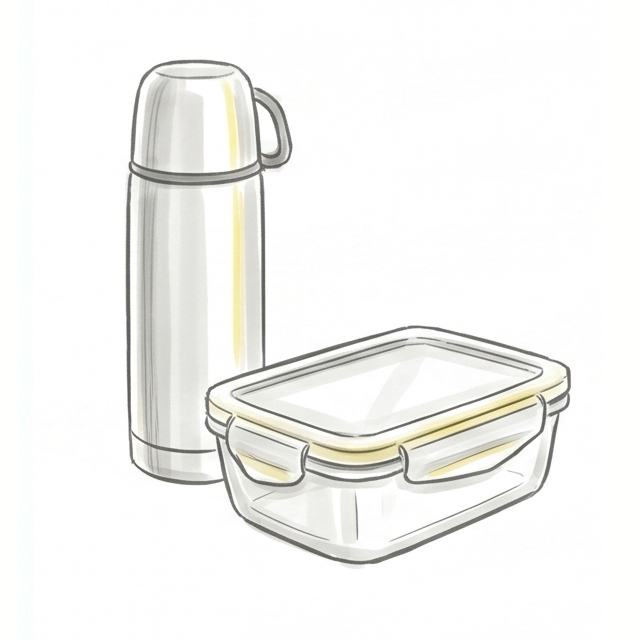
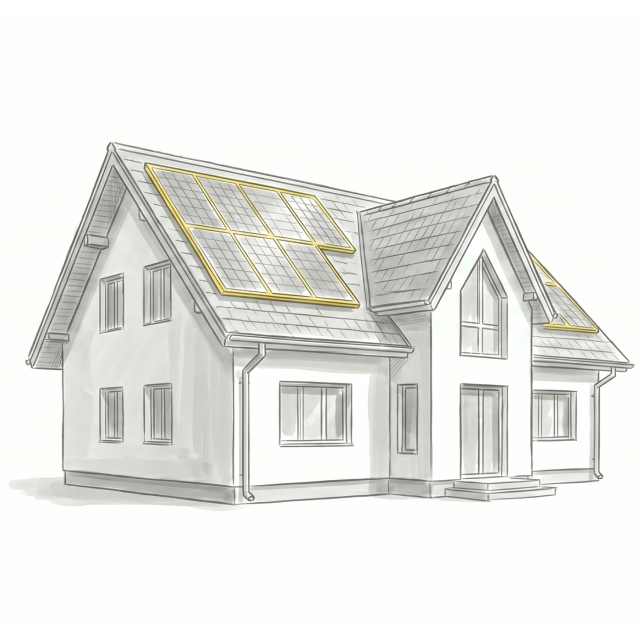
ch5 upd

diff --git a/chapter-5.html b/chapter-5.html
@@ -171,11 +171,12 @@
 
       <!-- Карточки привычек (desktop: 6 flip-cards) -->
       <div class="caption-label caption-label--desktop-only" style="text-align:center; margin-bottom: 24px;">Как снизить углеродный след в повседневной жизни?</div>
+      <p class="cards-white-hint">Наведите курсор на&nbsp;карточку</p>
       <div class="cards-white-grid cards-white-grid--habits-desktop reveal">
-        <div class="card-white card-white--portrait">
+        <div class="card-white">
           <div class="card-white__inner">
             <div class="card-white__front">
-              <img src="img/ch5/ch5-ill15.png" loading="lazy" alt="" class="card-white__icon card-white__icon--portrait">
+              <img src="img/ch5/ch5-ill17.png" loading="lazy" alt="" class="card-white__icon">
               <span class="card-white__label">Раздельный сбор отходов</span>
             </div>
             <div class="card-white__back">
@@ -184,10 +185,10 @@
             </div>
           </div>
         </div>
-        <div class="card-white card-white--portrait">
+        <div class="card-white">
           <div class="card-white__inner">
             <div class="card-white__front">
-              <img src="img/ch5/ch5-ill16.png" loading="lazy" alt="" class="card-white__icon card-white__icon--portrait">
+              <img src="img/ch5/ch5-ill18.png" loading="lazy" alt="" class="card-white__icon">
               <span class="card-white__label">Рациональное использование пищевых ресурсов</span>
             </div>
             <div class="card-white__back">
@@ -196,10 +197,10 @@
             </div>
           </div>
         </div>
-        <div class="card-white card-white--portrait">
+        <div class="card-white">
           <div class="card-white__inner">
             <div class="card-white__front">
-              <img src="img/ch5/ch5-ill17.png" loading="lazy" alt="" class="card-white__icon card-white__icon--portrait">
+              <img src="img/ch5/ch5-ill19.png" loading="lazy" alt="" class="card-white__icon">
               <span class="card-white__label">Переход на&nbsp;более экологичный транспорт</span>
             </div>
             <div class="card-white__back">
@@ -208,10 +209,10 @@
             </div>
           </div>
         </div>
-        <div class="card-white card-white--portrait">
+        <div class="card-white">
           <div class="card-white__inner">
             <div class="card-white__front">
-              <img src="img/ch5/ch5-ill18.png" loading="lazy" alt="" class="card-white__icon card-white__icon--portrait">
+              <img src="img/ch5/ch5-ill16.png" loading="lazy" alt="" class="card-white__icon">
               <span class="card-white__label">Отказ от&nbsp;одноразовых изделий</span>
             </div>
             <div class="card-white__back">
@@ -220,10 +221,10 @@
             </div>
           </div>
         </div>
-        <div class="card-white card-white--portrait">
+        <div class="card-white">
           <div class="card-white__inner">
             <div class="card-white__front">
-              <img src="img/ch5/ch5-ill19.png" loading="lazy" alt="" class="card-white__icon card-white__icon--portrait">
+              <img src="img/ch5/ch5-ill15.png" loading="lazy" alt="" class="card-white__icon">
               <span class="card-white__label">Энергоэффективность дома</span>
             </div>
             <div class="card-white__back">
@@ -232,10 +233,10 @@
             </div>
           </div>
         </div>
-        <div class="card-white card-white--portrait">
+        <div class="card-white">
           <div class="card-white__inner">
             <div class="card-white__front">
-              <img src="img/ch5/ch5-ill20.png" loading="lazy" alt="" class="card-white__icon card-white__icon--portrait">
+              <img src="img/ch5/ch5-ill20.png" loading="lazy" alt="" class="card-white__icon">
               <span class="card-white__label">Цифровая гигиена</span>
             </div>
             <div class="card-white__back">
@@ -356,6 +357,7 @@
 
       <!-- 4 направления партнёрства -->
       <div class="caption-label" style="text-align:center; margin-bottom: 24px;">В рамках партнёрства странам предлагают работать в&nbsp;четырёх направлениях</div>
+      <p class="cards-white-hint">Наведите курсор на&nbsp;карточку</p>
       <div class="cards-white-grid reveal">
         <div class="card-white">
           <div class="card-white__inner">
@@ -425,6 +427,7 @@
         <p class="body-text">Чтобы понять, насколько страны успешны в&nbsp;этой работе, был создан специальный проект <a href="https://mecce.ca/" target="_blank" rel="noopener">«Мониторинг и&nbsp;оценка коммуникации и&nbsp;образования по&nbsp;вопросам климата» (МОКОВК)</a>. Вот основные направления работы проекта:</p>
       </div>
 
+      <p class="cards-white-hint">Наведите курсор на&nbsp;карточку</p>
       <div class="cards-white-grid reveal">
         <div class="card-white">
           <div class="card-white__inner">

diff --git a/js/chapter-5.js b/js/chapter-5.js
@@ -270,6 +270,39 @@
   }
 
   /* ════════════════════════════════════════════════════════════
+   *  FLIP CARDS (тач-устройства)
+   * ════════════════════════════════════════════════════════════ */
+
+  function initFlipCards() {
+    const isTouchOnly = window.matchMedia('(hover: none) and (pointer: coarse)').matches;
+    if (!isTouchOnly) return;
+
+    const cards = Array.from(document.querySelectorAll('.card-white:not(.card-white--no-flip)'));
+    if (!cards.length) return;
+
+    document.querySelectorAll('.cards-white-hint').forEach(hint => {
+      hint.classList.add('cards-white-hint--touch');
+      hint.textContent = 'Нажмите на карточку';
+    });
+
+    cards.forEach(card => {
+      card.addEventListener('click', () => {
+        const isFlipped = card.classList.contains('card-white--flipped');
+        cards.forEach(c => c.classList.remove('card-white--flipped'));
+        if (!isFlipped) {
+          card.classList.add('card-white--flipped');
+        }
+      });
+    });
+
+    document.addEventListener('click', e => {
+      if (!e.target.closest('.card-white')) {
+        cards.forEach(c => c.classList.remove('card-white--flipped'));
+      }
+    });
+  }
+
+  /* ════════════════════════════════════════════════════════════
    *  INIT
    * ════════════════════════════════════════════════════════════ */
 
@@ -277,6 +310,7 @@
     initExpandingCards();
     initSliders();
     initQuiz();
+    initFlipCards();
   });
 
 })();
